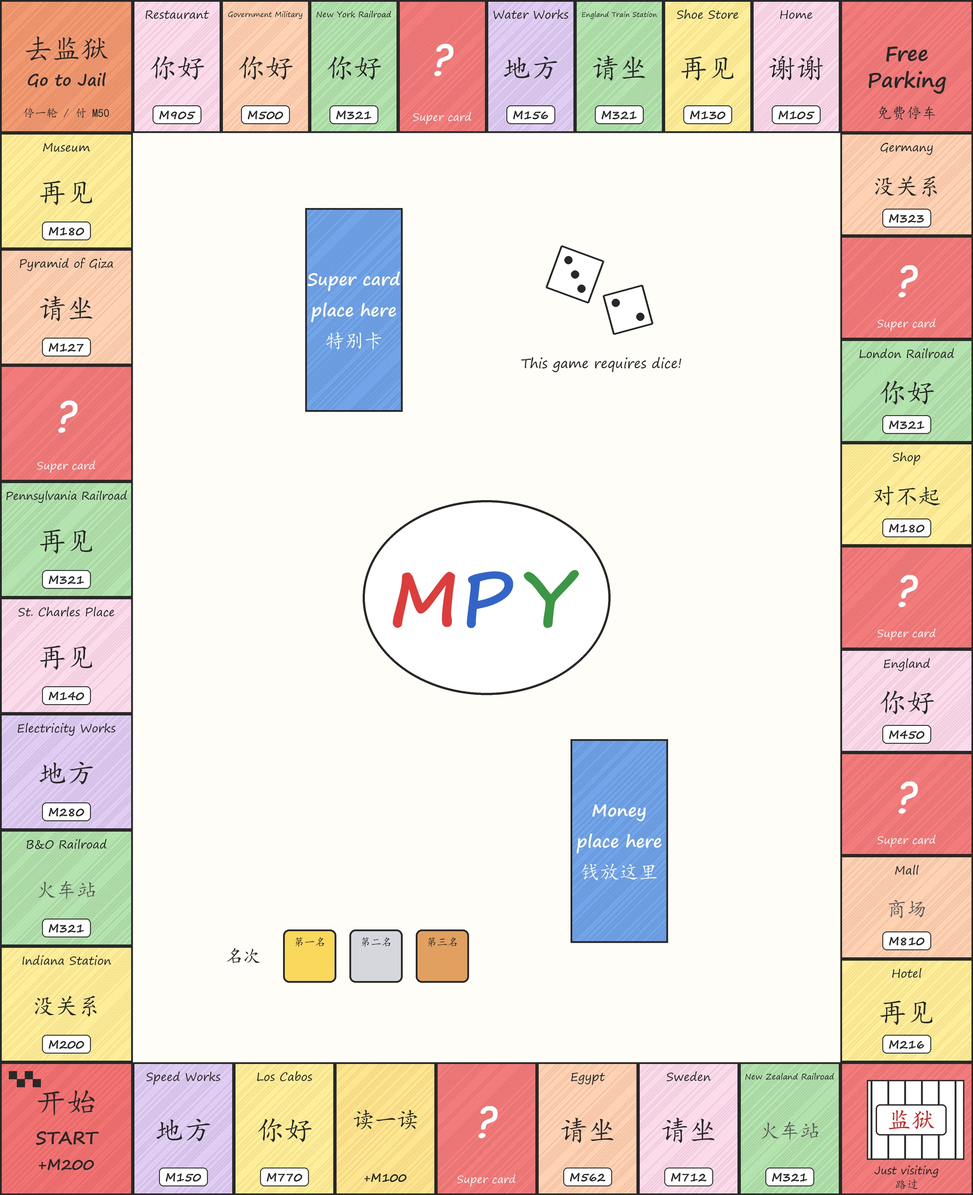
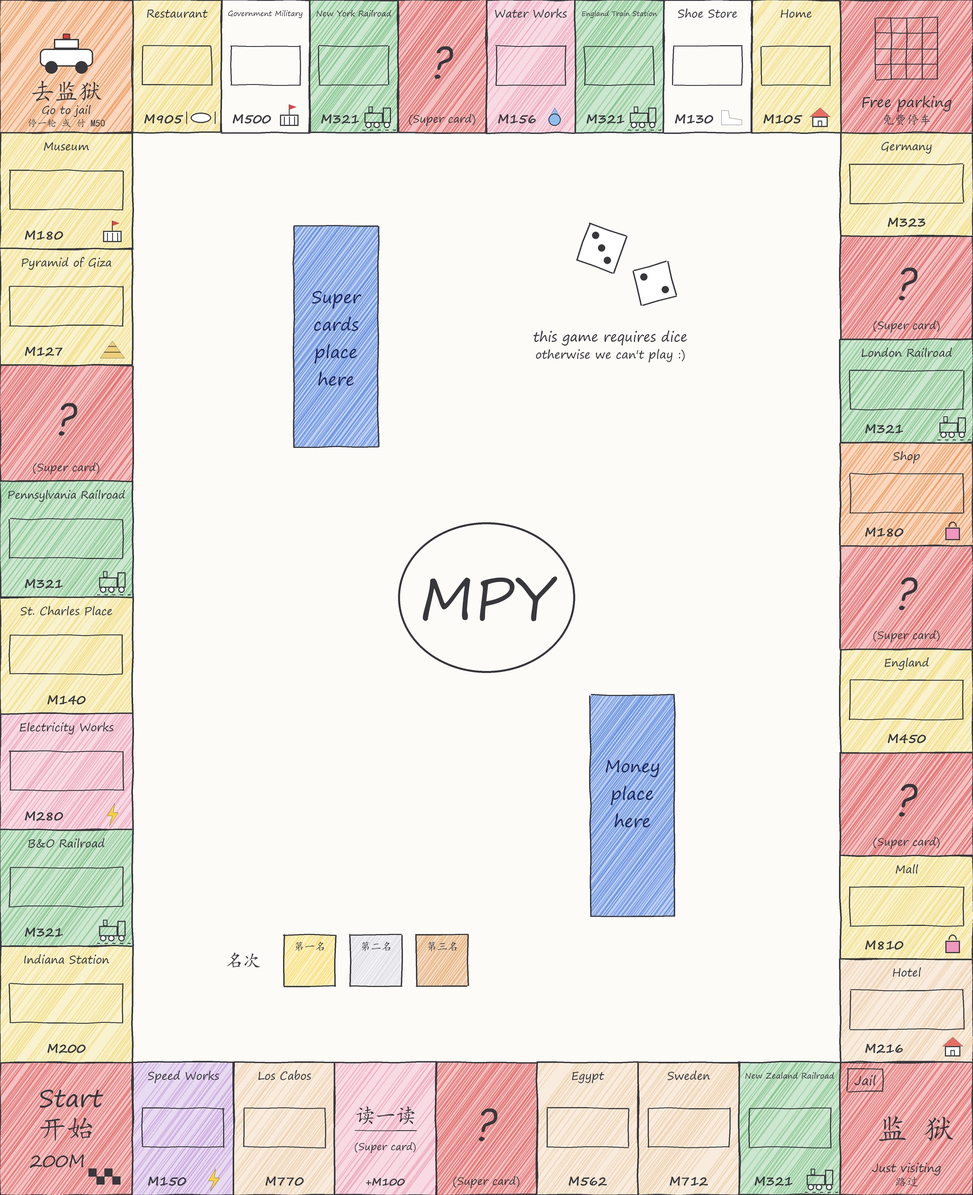
Redraw MPY like the student's board and let teachers set its words
- The board now looks like the student's: pencil lines, light crayon
  colours, handwritten place names, small pictures, prices in M, the
  blue card boxes and the dice drawing.
- The Chinese words on the 25 land squares are written by the page:
  the student's words by default, or words the teacher types or copies
  from the step-1 word list (same box as Escape the Classroom). Polite
  phrases get situation questions.
- The status line for unowned land now says the price buys the land.

diff --git a/src/teachingTools/public/low-prep/escape-the-path/escape-the-path.js b/src/teachingTools/public/low-prep/escape-the-path/escape-the-path.js
@@ -9,7 +9,7 @@
 
   var Core = window.EscapePathCore;
   var GAMES = { 'escape-the-path': window.EscapePathCore, 'candy-race': window.CandyRaceCore, 'escape-classroom': window.EscapeClassroomCore, 'mochi': window.MochiCore, 'space': window.SpaceCore, 'money': window.MoneyCore, 'mpy': window.MpyCore, 'maze': window.MazeCore, 'sweets': window.SweetsCore };
-  var IMAGES = { 'escape-the-path': '/low-prep/escape-the-path/board.webp?v=3', 'candy-race': '/low-prep/candy-race/board.webp?v=6', 'escape-classroom': '/low-prep/escape-classroom/board.webp?v=3', 'mochi': '/low-prep/mochi/board.webp?v=2', 'space': '/low-prep/space/board.webp?v=1', 'money': '/low-prep/money/board.webp?v=2', 'mpy': '/low-prep/mpy/board.webp?v=1', 'maze': '/low-prep/maze/board.webp?v=1', 'sweets': '/low-prep/sweets/board.webp?v=2' };
+  var IMAGES = { 'escape-the-path': '/low-prep/escape-the-path/board.webp?v=3', 'candy-race': '/low-prep/candy-race/board.webp?v=6', 'escape-classroom': '/low-prep/escape-classroom/board.webp?v=3', 'mochi': '/low-prep/mochi/board.webp?v=2', 'space': '/low-prep/space/board.webp?v=1', 'money': '/low-prep/money/board.webp?v=2', 'mpy': '/low-prep/mpy/board.webp?v=2', 'maze': '/low-prep/maze/board.webp?v=1', 'sweets': '/low-prep/sweets/board.webp?v=2' };
   var NAMES = { 'escape-the-path': 'Escape the Path', 'candy-race': 'Candy Race', 'escape-classroom': 'Escape the Classroom', 'mochi': 'Mochi Salamander Escape', 'space': '太大一', 'money': '汉字大富翁', 'mpy': 'MPY', 'maze': 'Maze 迷宫', 'sweets': '糖果乐园' };
   var G = Core;          // the game being played
   var isCandy = false;
@@ -111,7 +111,14 @@
   function showGame() {
     var id = radio('epGame') || 'escape-the-path';
     $('epJailField').hidden = id !== 'escape-the-path';
-    $('epDeskField').hidden = id !== 'escape-classroom';
+    $('epDeskField').hidden = id !== 'escape-classroom' && id !== 'mpy';
+    var squaresMode = id === 'mpy';   // MPY writes the words on its land squares (25)
+    $('epDeskLegend').textContent = squaresMode ? L('Words on the squares', '格子上的字') : L('Desk cards', '停在桌子上');
+    $('epDeskOpt').textContent = squaresMode ? L('Ask about the word on the square', '用格子上的字出题') : L('Ask about the desk phrase', '用桌子上的话出情景题');
+    $('epDeskLabel').textContent = squaresMode ? L('Words on the land squares (optional)', '地块上的字（可以不填）') : L('Words on the desks (optional)', '桌上的字（可以不填）');
+    $('epDeskCount').textContent = squaresMode
+      ? L('One word or phrase per line, written on the 25 land squares in order and repeated if there are fewer. Leave it empty to use the student\'s own words.', '每行一个词或短语，按顺序写到 25 块地上；词不够会重复使用。空着就用学生原来写的字。')
+      : L('One word or phrase per line, written on the desks in order and repeated if there are fewer words than desks (21). Leave it empty to use the student\'s own words.', '每行一个词或短语，按顺序写到桌子上；词不够 21 个会重复使用。空着就用学生原来写的字。');
     $('epLapsField').hidden = id !== 'money' && id !== 'mpy';
     Array.prototype.forEach.call(document.querySelectorAll('.ep-rules ol[data-game]'), function (ol) {
       ol.hidden = ol.dataset.game !== id;
@@ -660,7 +667,8 @@
         case 'card':
           if (isMochi) { status(ev.alarm ? L('Alarm! Answer the alarm question.', '警报！回答警报题。') : L('Draw a card!', '抽卡！')); break; }
           if (isClass) { status(ev.phrase ? L('Desk: ' + ev.phrase + '. Answer the card!', '桌子：' + ev.phrase + '。回答卡片！') : L('A desk! Draw a card.', '到桌子了，抽卡！')); break; }
-          if (ev.value) { status(L('Draw a card! Worth $' + ev.value + '.', '抽卡！答对得 $' + ev.value + '。')); break; }
+          if (isMoney && ev.kind === 'buy') { status(L('Answer right and you may buy this land for ' + CUR + ev.value + '.', '答对就可以花 ' + CUR + ev.value + ' 买下这块地。')); break; }
+          if (ev.value) { status(L('Draw a card! Worth ' + (isMoney ? CUR : '$') + ev.value + '.', '抽卡！答对得 ' + (isMoney ? CUR : '$') + ev.value + '。')); break; }
           status(ev.count > 1
             ? L('Draw a card! ' + ev.count + ' cards to go.', '抽卡！还要答 ' + ev.count + ' 张。')
             : L('Draw a card!', '抽卡！'));
@@ -726,7 +734,11 @@
   function openCard() {
     var card = null;
     if (isClass && settings.desk === 'phrase') card = G.situation(G.phrase(G.current(game).pos, game), zh);
-    if (!card && G.cardFor) card = G.cardFor(game, zh);   // MPY: the word written on the square
+    // MPY: the word on the square (polite phrases get a situation question, like Escape the Classroom)
+    if (!card && isMpy && settings.desk !== 'cards' && game.qkind !== 'special' && window.EscapeClassroomCore) {
+      card = window.EscapeClassroomCore.situation(G.phrase(G.current(game).pos, game), zh);
+      if (card) card.label = card.label.replace('桌子上的', '格子上的').replace('Desk ', 'Square ');
+    }
     card = card || drawCard();
     var team = G.current(game);
     var n = game.total - game.left + 1;
@@ -918,6 +930,14 @@
       var ex = b[0] + (cx - b[0]) * 0.12, ey = b[1] + (cy - b[1]) * 0.12;
       el('path', { d: 'M' + sx + ' ' + sy + ' Q' + cx + ' ' + cy + ' ' + ex + ' ' + ey, class: 'ep-link', 'marker-end': 'url(#epArrow)' });
     });
+    if (isMpy && game) {
+      G.WORD_SQUARES.forEach(function (sq) {
+        var word = G.phrase(sq, game);
+        if (!word) return;
+        var size = Math.min(70, 230 / Math.max(1, Array.from(word).length));
+        el('text', { x: G.BOARD[sq][0], y: G.BOARD[sq][1] + size * 0.36 - 2, class: 'ep-desk-text', 'font-size': size }, word);
+      });
+    }
     if (isClass && game) {
       G.DESK_SQUARES.forEach(function (sq, n) {
         var word = G.phrase(sq, game) || '?';
@@ -953,7 +973,7 @@
   }
 
   function begin() {
-    var deskWords = isClass && G.parseWords ? G.parseWords(settings.deskWords) : [];
+    var deskWords = (isClass || isMpy) && G.parseWords ? G.parseWords(settings.deskWords) : [];
     game = G.newGame({ teams: settings.teams, names: settings.names, jail: settings.jail, zh: zh, shared: Core, words: deskWords, laps: settings.laps });
     drawMarks();
     pile = [];

diff --git a/src/teachingTools/public/low-prep/mpy/mpy-core.js b/src/teachingTools/public/low-prep/mpy/mpy-core.js
@@ -48,6 +48,9 @@
   var GATE = {};
 
   var JAIL = DATA.jail;
+  // Land squares in board order: the word squares. The page writes a word on each.
+  var WORD_SQUARES = BOARD.map(function (s, i) { return s[2] === 'prop' ? i : -1; }).filter(function (i) { return i >= 0; });
+  var DEFAULT_WORDS = WORD_SQUARES.map(function (i) { return BOARD[i][4] || ''; });
   var JAIL_FEE = 50;
   var START_MONEY = 1500;
   var SALARY = 200;
@@ -73,7 +76,8 @@
         laps: 0, skip: false, out: false, done: false, jail: 0, place: 0 });
     }
     return { teams: teams, turn: 0, phase: 'roll', left: 0, total: 0, value: 0, places: [], options: [],
-      owner: BOARD.map(function () { return -1; }), laps: clamp(opts.laps, 1, 5, 2), zh: !!opts.zh };
+      owner: BOARD.map(function () { return -1; }), laps: clamp(opts.laps, 1, 5, 2), zh: !!opts.zh,
+      words: Array.isArray(opts.words) ? opts.words.filter(Boolean) : [] };
   }
 
   function current(state) { return state.teams[state.turn]; }
@@ -270,9 +274,23 @@
   }
 
   // The card for the square the team is on: its Chinese word, if it has one.
+  // The word on land square i: the teacher's words (in order, repeating) or the student's.
+  function phrase(i, state) {
+    var n = WORD_SQUARES.indexOf(i);
+    if (n < 0) return '';
+    var words = state && state.words;
+    return words && words.length ? words[n % words.length] : DEFAULT_WORDS[n];
+  }
+
+  // Teacher's text → words (one per line, or split by commas).
+  function parseWords(text) {
+    return String(text || '').split(/[\r\n,，、;；]+/).map(function (w) {
+      return w.split('|')[0].trim().slice(0, 12);
+    }).filter(Boolean).slice(0, 60);
+  }
+
   function cardFor(state, zh) {
-    var sq = BOARD[current(state).pos];
-    var word = sq[2] === 'prop' ? sq[4] : '';
+    var word = phrase(current(state).pos, state);
     if (!word || state.qkind === 'special') return null;
     return { label: zh ? '读一读，用它说一句话' : 'Read it, then make a sentence', q: word, a: '', big: true };
   }
@@ -282,7 +300,7 @@
     FRAME: FRAME, BOARD: BOARD, FINISH: FINISH, SPOTS: SPOTS, LINKS: LINKS, MARKS: MARKS, CONNECTOR: CONNECTOR,
     NEXT: NEXT, GATE: GATE, PODIUM: PODIUM, JAIL_TURNS: JAIL_TURNS,
     START_MONEY: START_MONEY, SALARY: SALARY, SPECIAL_PRIZE: SPECIAL_PRIZE, NORMAL_PRIZE: NORMAL_PRIZE, JAIL: JAIL, JAIL_FEE: JAIL_FEE,
-    rent: rent, cardFor: cardFor,
+    rent: rent, cardFor: cardFor, phrase: phrase, parseWords: parseWords, WORD_SQUARES: WORD_SQUARES, DEFAULT_WORDS: DEFAULT_WORDS,
     DIST: BOARD.map(function () { return 0; }),
     wealth: wealth, end: end,
     newGame: newGame, current: current, roll: roll, judge: judge, choose: choose, next: next,

diff --git a/src/teachingTools/test/mpy.test.js b/src/teachingTools/test/mpy.test.js
@@ -86,3 +86,16 @@ test('passing Start pays M200; laps end the game', () => {
   assert.equal(s.phase, 'over');
   assert.equal(shared.template({ cards: '题|答', game: 'mpy' }).game, 'mpy');
 });
+
+test('the teacher can choose the words on the land squares; empty keeps the student\'s', () => {
+  const words = core.parseWords('苹果\n香蕉，西瓜');
+  const s = core.newGame({ teams: 2, words });
+  const [a, b, , d] = core.WORD_SQUARES;
+  assert.equal(core.phrase(a, s), '苹果');
+  assert.equal(core.phrase(b, s), '香蕉');
+  assert.equal(core.phrase(d, s), '苹果');
+  assert.equal(core.phrase(a, core.newGame({ teams: 2 })), core.DEFAULT_WORDS[0]);
+  core.current(s).pos = b - 1;
+  core.roll(s, 1);
+  assert.equal(core.cardFor(s, true).q, '香蕉');
+});
